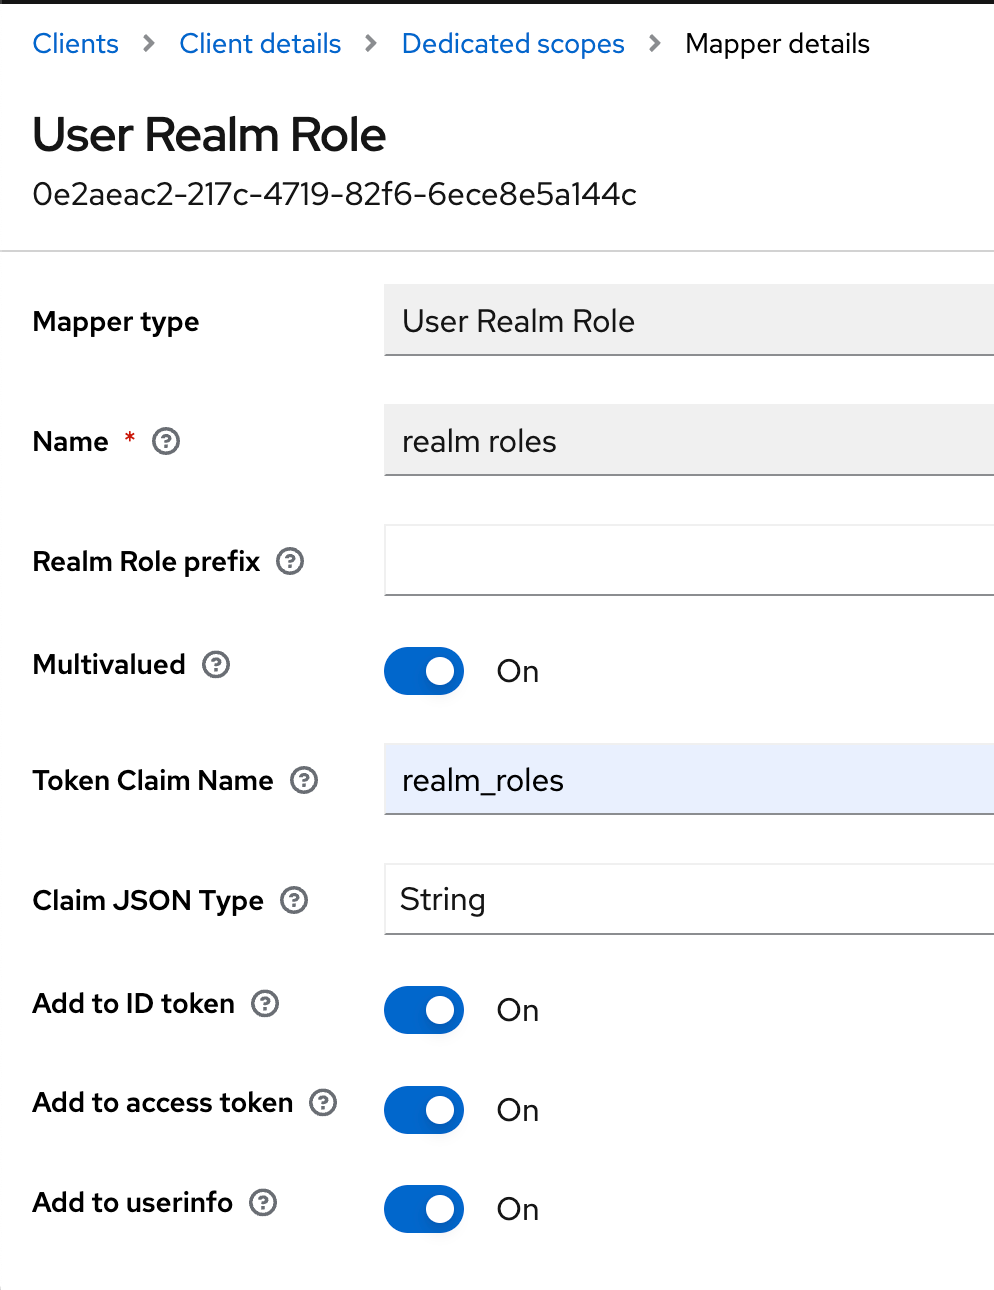
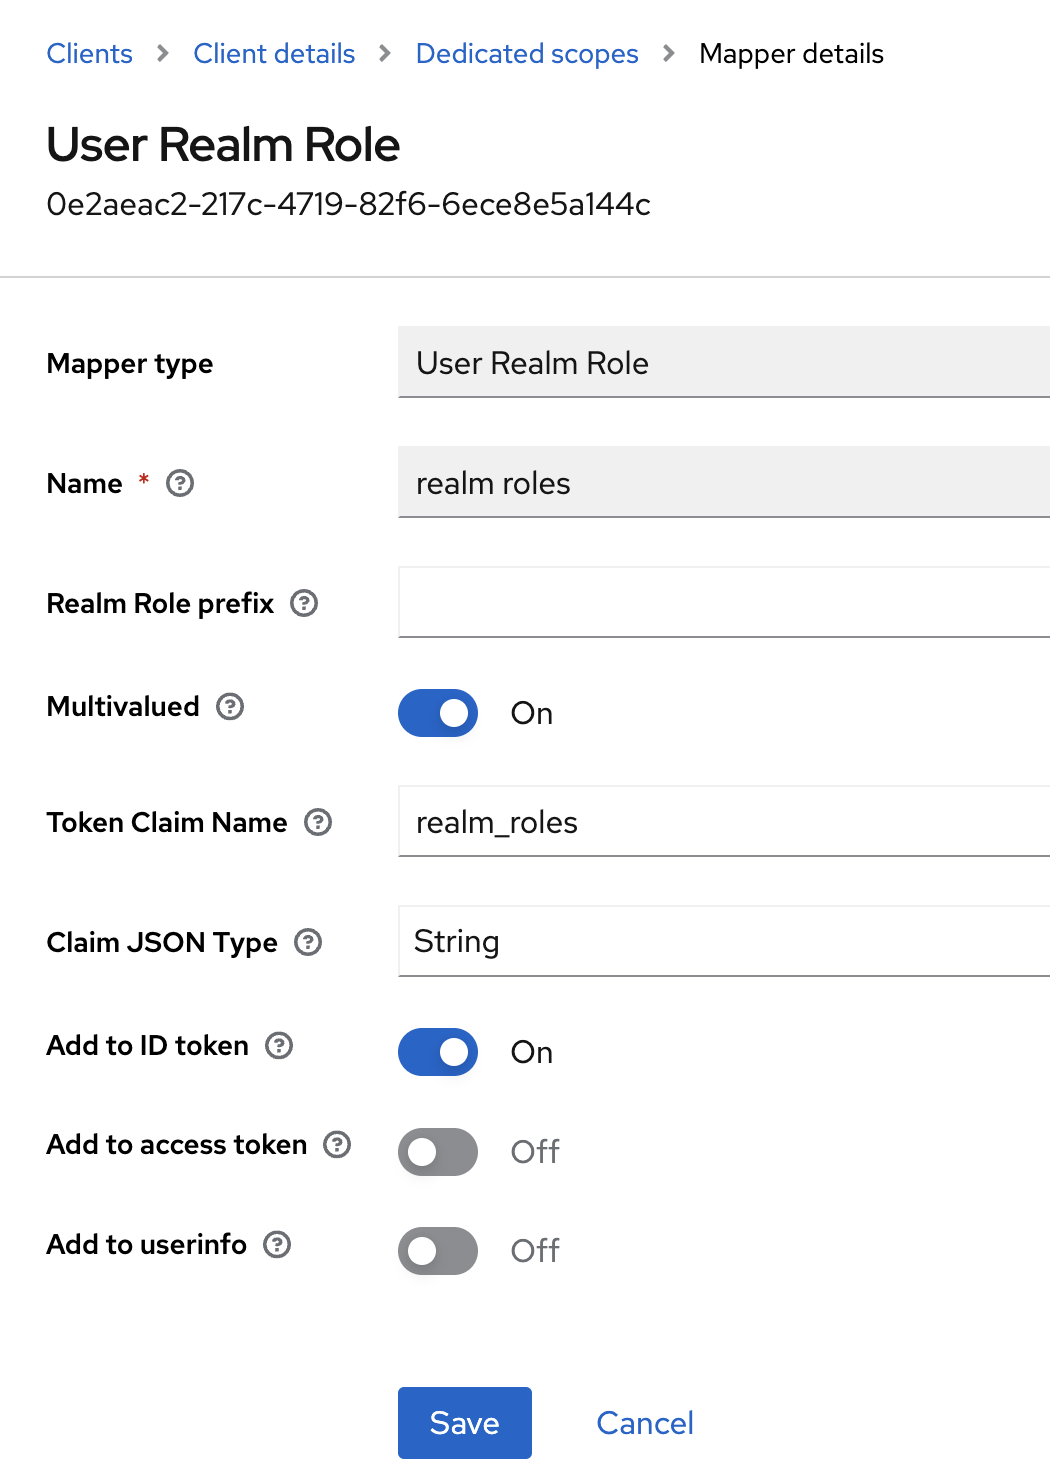
Deploy website

diff --git a/scrolls/oauth-oidc-keycloak-spring-boot-4-authorization-code/index.html b/scrolls/oauth-oidc-keycloak-spring-boot-4-authorization-code/index.html
@@ -10,7 +10,7 @@
     <meta charset="utf-8">
     <meta name="viewport" content="width=device-width, initial-scale=1">
     <meta name="description" content="">
-    <title>OAuth 2.0, OpenID Connect, Keycloak a Spring Boot 4 -- Flow pre Authorization Code | robonovotny</title>
+    <title>OAuth 2.0, OpenID Connect, Keycloak a Spring Boot -- Flow pre Authorization Code | robonovotny</title>
 
     <link rel="stylesheet" href="//cdnjs.cloudflare.com/ajax/libs/highlight.js/10.7.3/styles/dracula.min.css">
     <script src="//cdnjs.cloudflare.com/ajax/libs/highlight.js/10.7.3/highlight.min.js"></script>
@@ -43,9 +43,9 @@
     <br/>
 
 <div class="article-meta">
-<h1><span class="title">OAuth 2.0, OpenID Connect, Keycloak a Spring Boot 4 &ndash; Flow pre Authorization Code</span></h1>
+<h1><span class="title">OAuth 2.0, OpenID Connect, Keycloak a Spring Boot &ndash; Flow pre Authorization Code</span></h1>
 
-<h2 class="date">2023/03/26</h2>
+<h2 class="date">2023/03/29</h2>
 <p class="terms">
   
   
@@ -60,6 +60,10 @@
   <main>
     <div class="paragraph">
 <p>Ukážme si, ako je možné dodať do aplikácie v Spring Boote prihlásenie pomocou Keycloaku.</p>
+</div>
+<div class="paragraph">
+<p>Aplikácia bude ponúkať jednak REST API a jednak statickú stránku v HTML.
+Ktokoľvek, kto bude chcieť používať aplikáciu, sa bude môcť prihlásiť svojou identitou, ktorá je udržiavaná v Keycloaku, cez prihlasovací formulár zabezpečený Keycloakom.</p>
 </div>
 <div class="sect1">
 <h2 id="_vytvorenie_spring_boot_aplikácie">Vytvorenie Spring Boot aplikácie</h2>
@@ -76,7 +80,7 @@
 <p>štartér pre <em>Spring Boot OAuth 2 Client</em> (<code>org.springframework.boot:spring-boot-starter-oauth2-client</code>)</p>
 </li>
 <li>
-<p>štartér pre web</p>
+<p>štartér pre web (<code>org.springframework.boot:spring-boot-starter-web</code>)</p>
 </li>
 </ul>
 </div>
@@ -364,7 +368,7 @@ Ani jeden z týchto spôsobov roly neobsahuje.</p>
 <p>Nastavme názov claimu v tokene: <strong>Token Claim Name</strong>. Ak uvedieme <code>realm_roles</code>, v tokene sa objaví <em>claim</em> s týmto menom.</p>
 </li>
 <li>
-<p>Tento claim pridajme do oboch tokenov (<em>identifikačný token</em> aj <em>prístupový token</em>) i do endpointu <em>userinfo</em>.</p>
+<p>Tento claim pridajme do identifikačného tokenu (<em>ID token</em>), keďže z neho bude Spring Boot načítavať údaje o autorizovanom používateľovi.</p>
 </li>
 </ol>
 </div>
@@ -383,8 +387,24 @@ Ani jeden z týchto spôsobov roly neobsahuje.</p>
 </div>
 </div>
 <div class="paragraph">
-<p>Následne si vpravo vieme prezrieť generované tokeny: <strong>Generated Access Token</strong> (pre prístupový token), <strong>Generated ID token</strong> a <strong>Generated User Info</strong>.
+<p>Následne si vpravo vieme prezrieť generované tokeny: ale nás zaujíma len <strong>Generated ID token</strong>.
 V každom bloku uvidíme claim <code>realm_roles</code> s rolami realmu.</p>
+</div>
+<div class="listingblock">
+<div class="content">
+<pre class="highlight"><code class="language-json" data-lang="json">{
+  &#34;exp&#34;: 1680097008,
+  &#34;iat&#34;: 1680096948,
+  &#34;preferred_username&#34;: &#34;harald&#34;,
+  ...
+  &#34;realm_roles&#34;: [
+    &#34;default-roles-master&#34;,
+    &#34;offline_access&#34;,
+    &#34;creditor&#34;,
+    &#34;uma_authorization&#34;
+  ]
+}</code></pre>
+</div>
 </div>
 </div>
 <div class="sect2">

diff --git a/index.html b/index.html
@@ -54,13 +54,13 @@
      
      
      <li>
-       <span class="date">2023/03/26</span>
-       <a href="/scrolls/oauth-oidc-keycloak-spring-boot-3-roly/">OAuth 2.0, OpenID Connect, Keycloak a Spring Boot 3 &ndash; Roly používateľov a autorizácia</a>
+       <span class="date">2023/03/29</span>
+       <a href="/scrolls/oauth-oidc-keycloak-spring-boot-4-authorization-code/">OAuth 2.0, OpenID Connect, Keycloak a Spring Boot &ndash; Flow pre Authorization Code</a>
      </li>
      
      <li>
        <span class="date">2023/03/26</span>
-       <a href="/scrolls/oauth-oidc-keycloak-spring-boot-4-authorization-code/">OAuth 2.0, OpenID Connect, Keycloak a Spring Boot 4 &ndash; Flow pre Authorization Code</a>
+       <a href="/scrolls/oauth-oidc-keycloak-spring-boot-3-roly/">OAuth 2.0, OpenID Connect, Keycloak a Spring Boot 3 &ndash; Roly používateľov a autorizácia</a>
      </li>
      
      <li>

diff --git a/scrolls/index.html b/scrolls/index.html
@@ -55,13 +55,13 @@
      
      
      <li>
-       <span class="date">2023/03/26</span>
-       <a href="/scrolls/oauth-oidc-keycloak-spring-boot-3-roly/">OAuth 2.0, OpenID Connect, Keycloak a Spring Boot 3 &ndash; Roly používateľov a autorizácia</a>
+       <span class="date">2023/03/29</span>
+       <a href="/scrolls/oauth-oidc-keycloak-spring-boot-4-authorization-code/">OAuth 2.0, OpenID Connect, Keycloak a Spring Boot &ndash; Flow pre Authorization Code</a>
      </li>
      
      <li>
        <span class="date">2023/03/26</span>
-       <a href="/scrolls/oauth-oidc-keycloak-spring-boot-4-authorization-code/">OAuth 2.0, OpenID Connect, Keycloak a Spring Boot 4 &ndash; Flow pre Authorization Code</a>
+       <a href="/scrolls/oauth-oidc-keycloak-spring-boot-3-roly/">OAuth 2.0, OpenID Connect, Keycloak a Spring Boot 3 &ndash; Roly používateľov a autorizácia</a>
      </li>
      
      <li>
